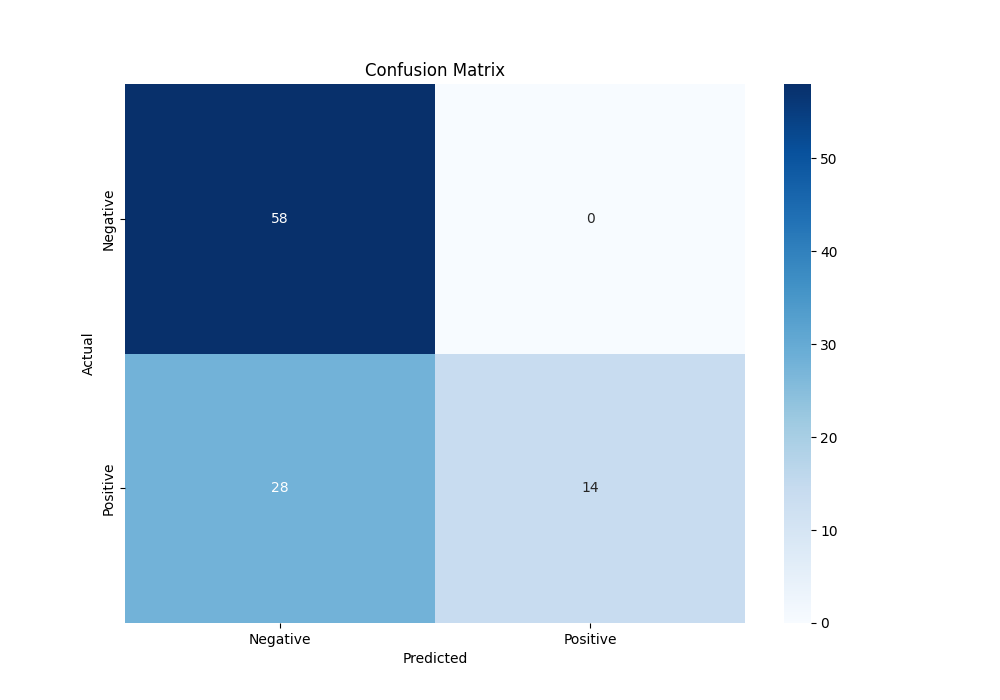
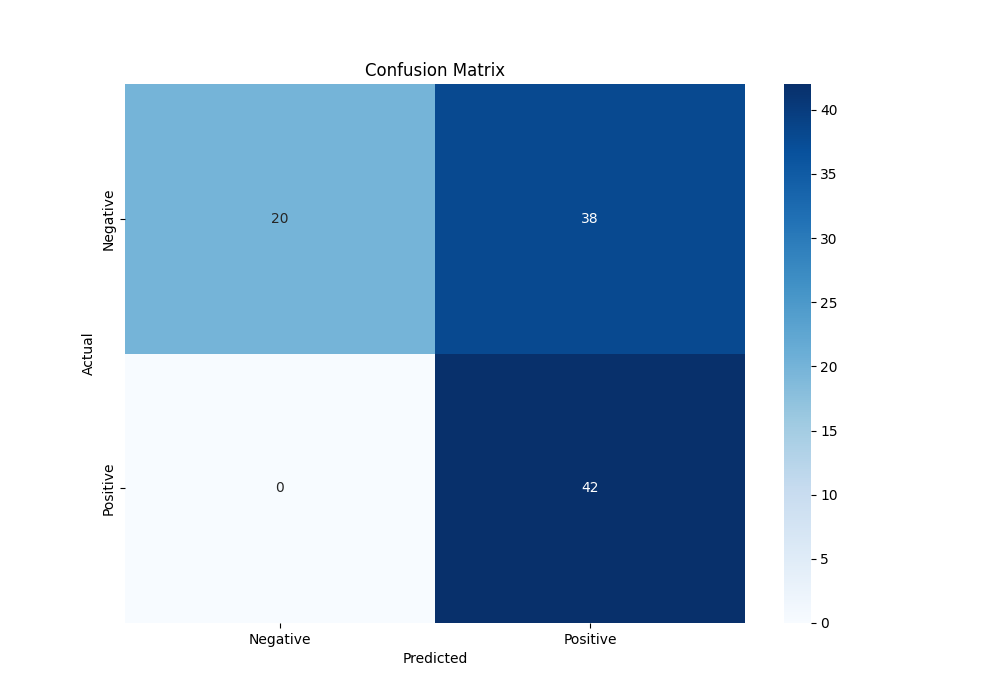
feat: benchmark even more models

diff --git a/src/sentiment_analyser.py b/src/sentiment_analyser.py
@@ -64,7 +64,7 @@ class SentimentAnalyser:
         """
         logger.info(f"Analysing sentiment of the text: {text}")
 
-        # Let the model generate a label for the sentiment
+        # Calculate the sentiment of the text
         sentiment = self.pipeline(text)
 
         logger.info(f"Sentiment from model: {sentiment}")
@@ -81,25 +81,24 @@ class SentimentAnalyser:
             logger.info(f"Resulting sentiment: {sentiment_log}")
             return sentiment
 
-        # Models who use
+        # Models who use descriptive labels as sentiment labels
         predicted_sentiment = sentiment[0]["label"].upper()
-        if predicted_sentiment == "POSITIVE" or predicted_sentiment == "LABEL_1":
+        if "POS" in predicted_sentiment or predicted_sentiment == "LABEL_1":
             sentiment = SentimentType.POSITIVE.value
             sentiment_log = SentimentType.POSITIVE
-        elif predicted_sentiment == "NEGATIVE" or predicted_sentiment == "LABEL_0":
+        elif "NEG" in predicted_sentiment or predicted_sentiment == "LABEL_0":
             sentiment = SentimentType.NEGATIVE.value
             sentiment_log = SentimentType.NEGATIVE
         elif (
-            predicted_sentiment == "NEUTRAL"
+            "NEU" in predicted_sentiment
         ):  # For this case neutral will be seen as positive
-            sentiment = SentimentType.NEGATIVE.value
-            sentiment_log = SentimentType.NEGATIVE
+            sentiment = SentimentType.POSITIVE.value
+            sentiment_log = SentimentType.POSITIVE
         else:
             sentiment = SentimentType.NOT_UNDERSTOOD.value
             sentiment_log = SentimentType.NOT_UNDERSTOOD
 
         logger.info(f"Resulting sentiment: {sentiment_log}")
-
         return sentiment
 
     def analyse(
@@ -169,7 +168,7 @@ class SentimentAnalyser:
         # Mapping numeric labels to string labels
         label_mapping = {
             1: f"{SentimentType.POSITIVE}",
-            -1: f"{SentimentType.NEGATIVE}",
+            0: f"{SentimentType.NEGATIVE}",
         }
         data["sentiment"] = data["sentiment"].map(label_mapping)
         data["predicted_sentiment"] = data["predicted_sentiment"].map(label_mapping)

diff --git a/src/preprocessor.py b/src/preprocessor.py
@@ -20,8 +20,11 @@ MAX_SEQUENCE_LENGTH = int(os.getenv("MAX_SEQUENCE_LENGTH"))
 class Preprocessor:
     """This class preprocess the review dataset"""
 
-    def __init__(self):
+    def __init__(self, sequence_length: int = MAX_SEQUENCE_LENGTH):
         logger.info("Initializing the preprocessor...")
+
+        self.sequence_length = sequence_length
+
         logger.info("Preprocessor initialized successfully")
 
     def read_in_data(self, data_path: str = DATA_PATH) -> pd.DataFrame:
@@ -40,7 +43,7 @@ class Preprocessor:
 
         # Transform dataframe to the desired format:
         #   - Combine all the columns, right before the sentiment column into a single review column.
-        #   - Create a sentiment column with 1 for positive and 0 for negative (No neutral).
+        #   - Create a sentiment column with 1 for positive and 0 for negative (No neutral in this dataset).
         reviews = []
         sentiments = []
         for _, row in df.iterrows():
@@ -99,7 +102,8 @@ class Preprocessor:
         text = re.sub(r"\s+", " ", text).strip()
 
         # Limit the sequence length
-        text = text[:MAX_SEQUENCE_LENGTH]
+        logger.error(f"Sequence length: {self.sequence_length}")
+        text = text[: self.sequence_length]
 
         logger.info(f"Text preprocessed successfully: {text}")
 

diff --git a/src/main.py b/src/main.py
@@ -30,6 +30,13 @@ if __name__ == "__main__":
         "--model", default=MODEL, type=str, help="Which model to use from HuggingHub"
     )
 
+    parser.add_argument(
+        "--sequence_length",
+        default=512,
+        type=int,
+        help="Max sequence length for the model",
+    )
+
     args = parser.parse_args()
 
     configure_logging()
@@ -38,8 +45,8 @@ if __name__ == "__main__":
     logger.info("Starting the benchmark...")
     logger.info(f"Arguments: {args}")
 
-    preprocessor = Preprocessor()
-    sentiment_analyser = SentimentAnalyser(model=args.model)
+    preprocessor = Preprocessor(sequence_length=int(args.sequence_length))
+    sentiment_analyser = SentimentAnalyser(model=args.model, preprocessor=preprocessor)
 
     data = preprocessor.read_in_data(data_path=args.data)
 

diff --git a/src/custom_types.py b/src/custom_types.py
@@ -7,9 +7,9 @@ class SentimentType(Enum):
     """Sentiment types"""
 
     POSITIVE = 1
-    NEGATIVE = -1
-    NEUTRAL = 0
-    NOT_UNDERSTOOD = 2
+    NEGATIVE = 0
+    NEUTRAL = 2
+    NOT_UNDERSTOOD = 3
 
     def __str__(self):
         if self == SentimentType.POSITIVE:
